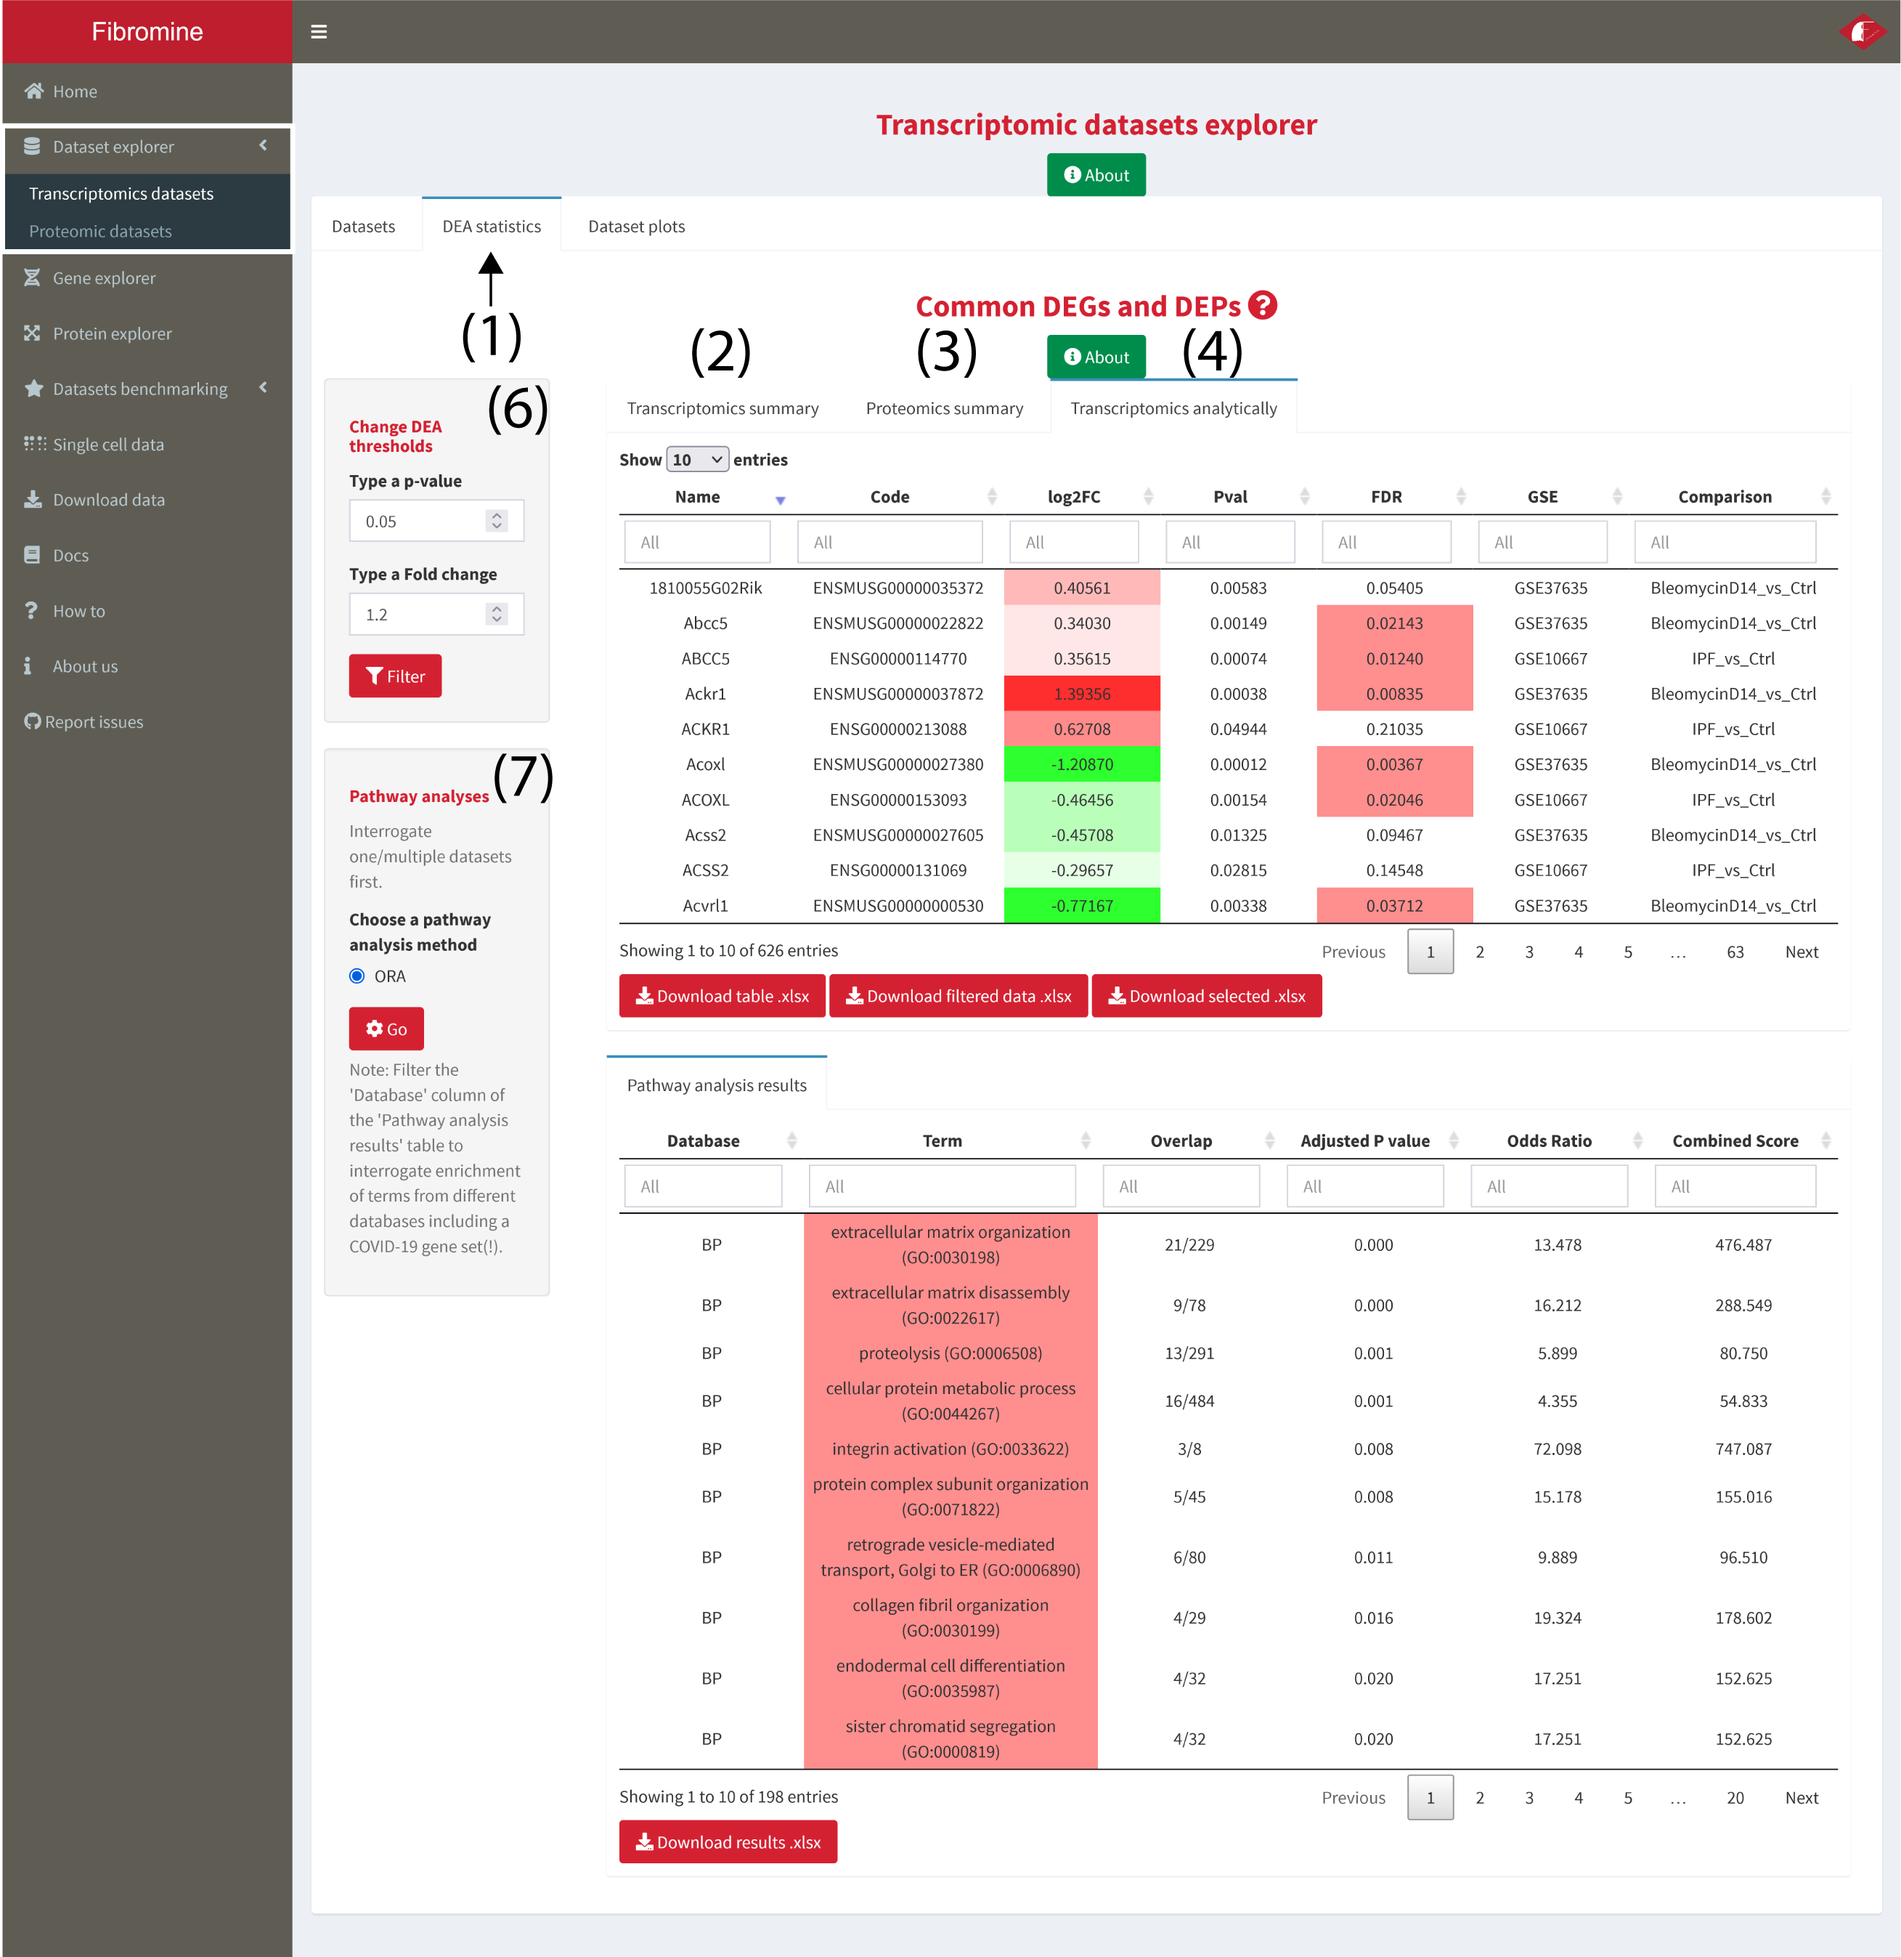
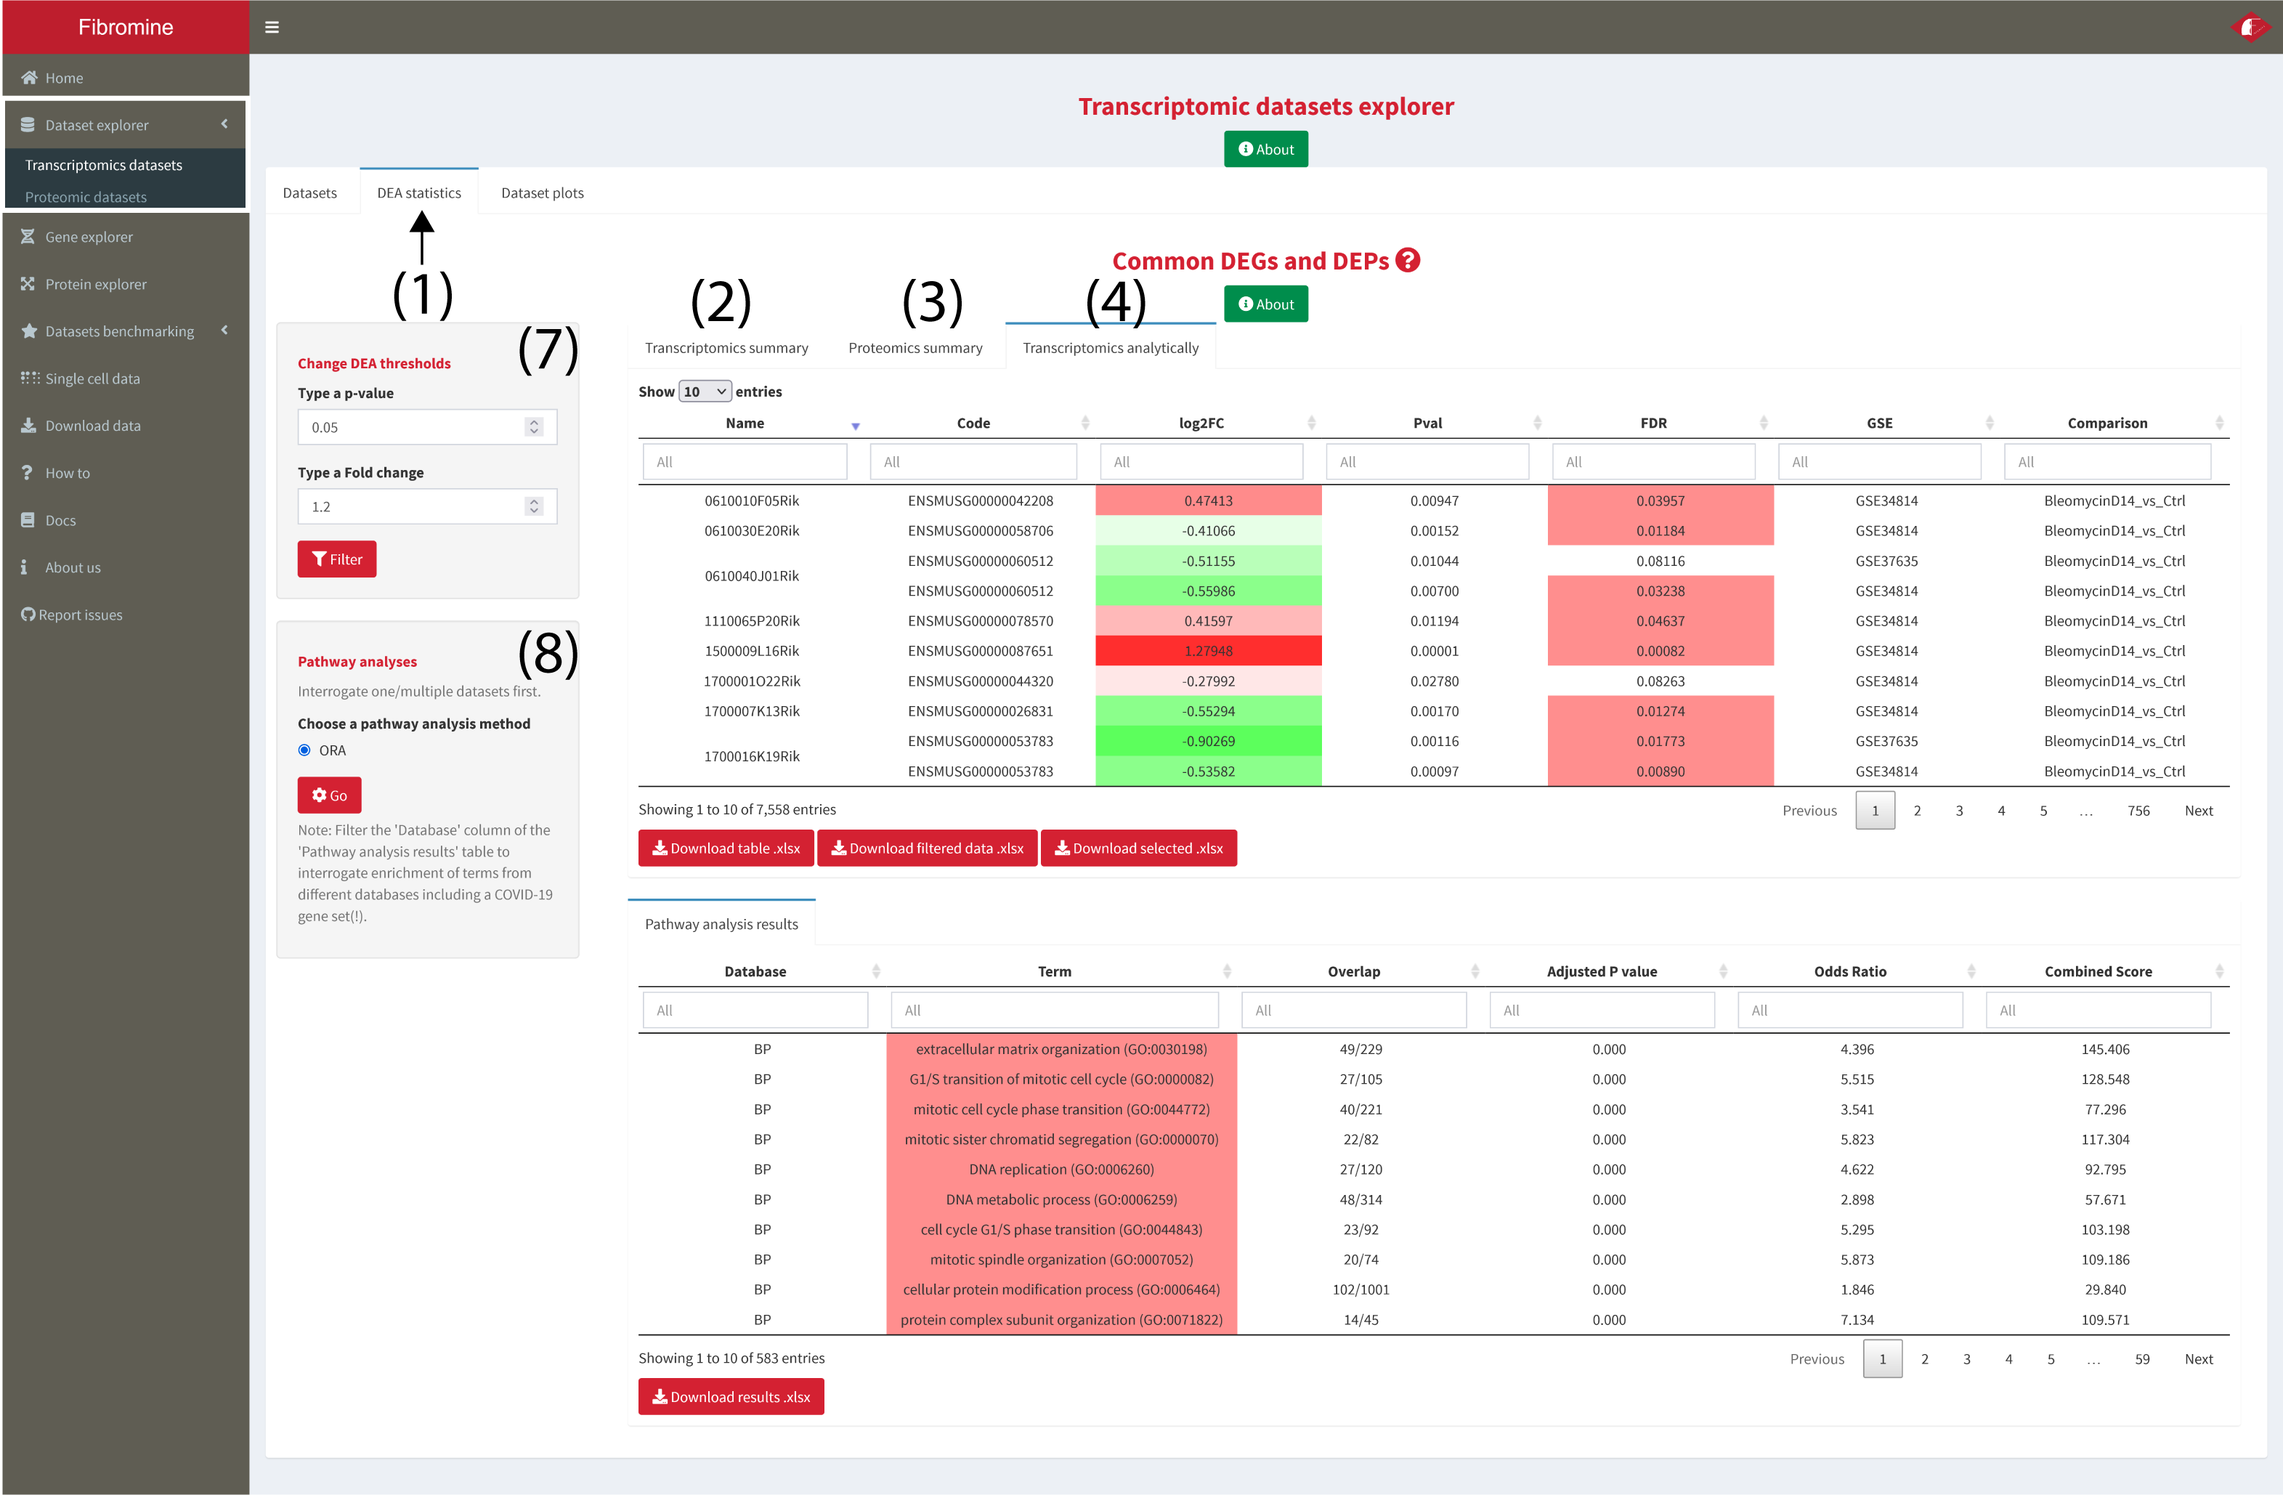
How to tab update

diff --git a/www/howTo.md b/www/howTo.md
@@ -14,7 +14,7 @@
 
 	Analysis can be further fine-tuned using the **Out of ... Datasets (5)** column (see Docs for mor details), as well as by changing the default **p-value and FC thresholds (7)**.
 
-	The user can also perform **pathway analysis (8)** using the concensus differentially expressed genes presented in (2).   
+	The user can also perform **pathway analysis (8)** using the concensus differentially expressed genes presented in (2). The gene groups used as background for the analysis can be filtered from within the results table **(9)**. 
 
 	<a href= "howToScreenshots/datasetExpl2.png" target="_blank" rel='noopener noreferrer'> 
 		<img src= "./howToScreenshots/datasetExpl2.png" alt="image" style="width:900px;height:650px" class="center"/>
@@ -46,7 +46,7 @@
 
 	Analysis can be further fine-tuned using the **Out of ... Datasets (5)** column (see Docs for more details), as well as by changing the default **p-value and FC thresholds (7)**.
 
-	The user can also perform **pathway analysis (8)** using the concensus differentially expressed genes presented in (2).
+	The user can also perform **pathway analysis (8)** using the concensus differentially expressed genes presented in (2). The gene groups used as background for the analysis can be filtered from within the results table **(9)**.
 
 	<a href= "howToScreenshots/datasetExpl7.png" target="_blank" rel='noopener noreferrer'> 
 		<img src= "./howToScreenshots/datasetExpl7.png" alt="image" style="width:900px;height:650px" class="center"/>
